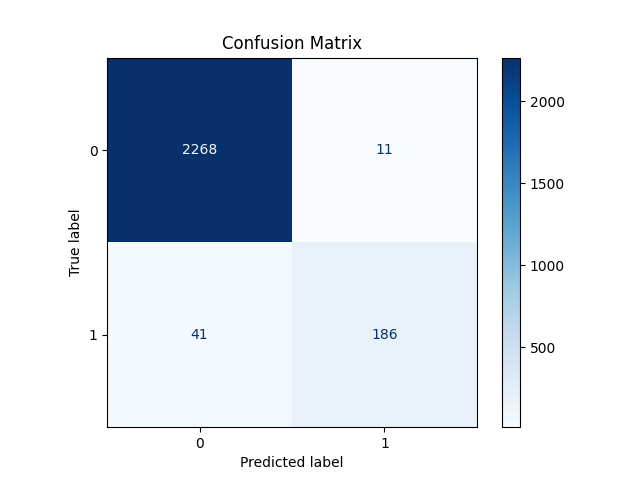
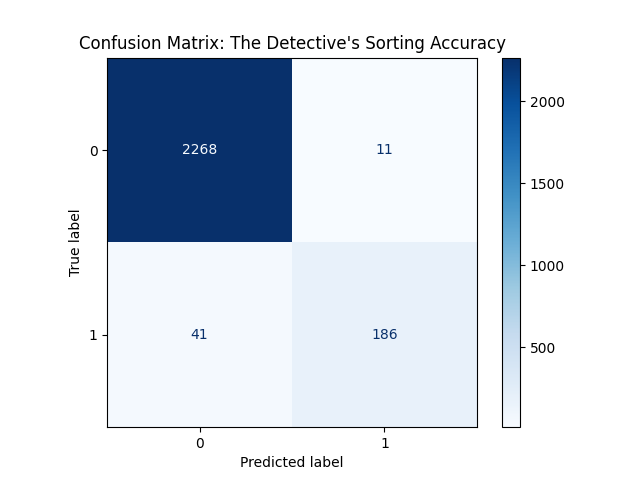
feat: final educational MLOps pipeline with visualizations and interactive demo

Changed region(s): [[0.125, 0.0625, 0.7812, 0.125]]

diff --git a/src/evaluate.py b/src/evaluate.py
@@ -8,6 +8,7 @@ from sklearn.metrics import classification_report, f1_score, accuracy_score, con
 import matplotlib.pyplot as plt
 import seaborn as sns
 
+# Helper: Load instructions
 def load_config(config_path):
     with open(config_path, 'r') as f:
         return yaml.safe_load(f)
@@ -24,7 +25,7 @@ def run_evaluation():
     logger = logging.getLogger("Evaluate")
     logger.info("Starting model evaluation and visualization...")
 
-    # Load test data and model
+    # Step 1: Load the "Exam Questions" (Test Data) and the "Detective's Brain" (Model)
     processed_dir = config['paths']['processed_dir']
     X_test = pd.read_csv(os.path.join(processed_dir, "X_test.csv"))
     y_test = pd.read_csv(os.path.join(processed_dir, "y_test.csv"))
@@ -32,10 +33,12 @@ def run_evaluation():
     model_path = config['paths']['model_path']
     model = joblib.load(model_path)
 
-    # Predictions
+    # Step 2: Make Predictions (The Detective takes the Exam)
     y_pred = model.predict(X_test)
 
-    # Metrics
+    # Step 3: Calculate Performance Scores (The Grading)
+    # Accuracy: % of correct answers overall.
+    # F1 Score: A balance between finding all pulsars and not making false alarms.
     report = classification_report(y_test, y_pred, output_dict=True)
     f1 = f1_score(y_test, y_pred)
     acc = accuracy_score(y_test, y_pred)
@@ -46,25 +49,28 @@ def run_evaluation():
         "classification_report": report
     }
 
-    # Save metrics
+    # Save metrics to a file
     metrics_path = config['paths']['metrics_path']
     os.makedirs(os.path.dirname(metrics_path), exist_ok=True)
     with open(metrics_path, 'w') as f:
         json.dump(metrics, f, indent=4)
     
-    # Visualization: Confusion Matrix
+    # Step 4: Visualizing Results (The 'Report Cards')
     plots_dir = config['paths']['plots_dir']
     os.makedirs(plots_dir, exist_ok=True)
     
+    # Visualization A: Confusion Matrix (The 'Sorting Map')
+    # Shows exactly where the detective was correct vs where they got confused.
     plt.figure(figsize=(10, 7))
     cm = confusion_matrix(y_test, y_pred)
     disp = ConfusionMatrixDisplay(confusion_matrix=cm)
     disp.plot(cmap='Blues')
-    plt.title('Confusion Matrix')
+    plt.title('Confusion Matrix: The Detective\'s Sorting Accuracy')
     plt.savefig(os.path.join(plots_dir, 'confusion_matrix.png'))
     plt.close()
     
-    # Visualization: Feature Importance
+    # Visualization B: Feature Importance (The 'Clue Map')
+    # Shows which measurements were the most important for the Detective's decisions.
     plt.figure(figsize=(12, 8))
     importances = model.feature_importances_
     feature_names = X_test.columns
@@ -72,14 +78,14 @@ def run_evaluation():
     feature_importance_df = feature_importance_df.sort_values(by='importance', ascending=False)
     
     sns.barplot(x='importance', y='feature', data=feature_importance_df, palette='viridis')
-    plt.title('Model Feature Importance')
+    plt.title('Feature Importance: Which Clues Mattered Most?')
     plt.tight_layout()
     plt.savefig(os.path.join(plots_dir, 'feature_importance.png'))
     plt.close()
 
     logger.info("Evaluation and visualization complete. Artifacts saved.")
     print(f"Evaluation complete. Accuracy: {acc:.4f}, F1: {f1:.4f}")
-    print(f"Visualizations saved to {plots_dir}")
+    print(f"Visualizations have been saved to {plots_dir}")
 
 if __name__ == "__main__":
     run_evaluation()

diff --git a/src/predict.py b/src/predict.py
@@ -4,6 +4,7 @@ import yaml
 import os
 import random
 
+# Helper: Load instructions
 def load_config(config_path):
     with open(config_path, 'r') as f:
         return yaml.safe_load(f)
@@ -11,7 +12,7 @@ def load_config(config_path):
 def run_demo():
     config = load_config('config/config.yaml')
     
-    # 1. Load the model and data
+    # Step 1: Load the Detective (the Model) and the Archives (the Data)
     model = joblib.load(config['paths']['model_path'])
     X_test = pd.read_csv(os.path.join(config['paths']['processed_dir'], "X_test.csv"))
     y_test = pd.read_csv(os.path.join(config['paths']['processed_dir'], "y_test.csv"))
@@ -20,7 +21,7 @@ def run_demo():
     print("🛸 SPACE DETECTIVE: LIVE INVESTIGATION")
     print("="*40)
     
-    # 2. Let the user choose from a given list
+    # Step 2: Let the user (the Junior Detective) choose a star to investigate
     print("Select a star from the Star Chart to investigate:")
     print(" A. Star Sirius (Classic Pulsar)")
     print(" B. Star Vega   (Quiet Signal)")
@@ -28,15 +29,16 @@ def run_demo():
     print(" D. Pick a Random Star")
     print(" E. Enter a Custom Star ID")
     
-    # Mapping friendly names to indices (using the ones we identified)
+    # Mapping names to data indices
     star_map = {
-        'A': 5,  # Pulsar
-        'B': 0,  # Junk
-        'C': 11, # Pulsar
+        'A': 5,  # Verified Pulsar in dataset
+        'B': 0,  # Verified Space Junk in dataset
+        'C': 11, # Verified Pulsar in dataset
     }
     
     choice = input("\nEnter your selection (A-E): ").upper()
     
+    # Step 3: Identify the star index based on the choice
     if choice in star_map:
         idx = star_map[choice]
     elif choice == 'D':
@@ -54,18 +56,18 @@ def run_demo():
         print("⚠ Unknown selection. The Detective picked a random star for you!")
         idx = random.randint(0, len(X_test) - 1)
 
-    # 3. Get the sample
+    # Step 4: Get the specific star signal measurements
     sample = X_test.iloc[[idx]]
     actual_label = y_test.iloc[idx].values[0]
 
-    # 4. Make Prediction
+    # Step 5: Ask the Detective for their opinion
     prediction = model.predict(sample)[0]
     
-    # 5. Print results with Space Detective analogy
+    # Step 6: Reveal the Truth!
     print("\n" + "-"*40)
     name_label = choice if choice in star_map else f"ID: {idx}"
     print(f"Investigating Star: {name_label}")
-    print("\nScanning star signal measurements...")
+    print("\nScanning star signal measurements (The Clues)...")
     for col in X_test.columns:
         print(f" - {col}: {sample[col].values[0]:.4f}")
     
@@ -73,6 +75,7 @@ def run_demo():
     print(f"🕵  Detective says: This looks like {'a REAL PULSAR' if prediction == 1 else 'SPACE JUNK (Noise)'}")
     print(f"📜 Ancient Archive (Truth): This is {'a REAL PULSAR' if actual_label == 1 else 'SPACE JUNK (Noise)'}")
     
+    # Step 7: Check if the Detective was correct
     if prediction == actual_label:
         print("\n✅ THE DETECTIVE WAS RIGHT!")
     else:

diff --git a/src/preprocess.py b/src/preprocess.py
@@ -6,6 +6,8 @@ from sklearn.preprocessing import StandardScaler
 from sklearn.impute import SimpleImputer
 import logging
 
+# Step 1: Load the configuration file (the 'Instruction Manual')
+# This tells the code where to find data and how to process it.
 def load_config(config_path):
     with open(config_path, 'r') as f:
         return yaml.safe_load(f)
@@ -13,7 +15,7 @@ def load_config(config_path):
 def run_preprocessing():
     config = load_config('config/config.yaml')
     
-    # Setup logging
+    # Setup logging to keep track of what the code is doing
     os.makedirs(os.path.dirname(config['paths']['log_path']), exist_ok=True)
     logging.basicConfig(
         filename=config['paths']['log_path'],
@@ -23,11 +25,12 @@ def run_preprocessing():
     logger = logging.getLogger("Preprocess")
     logger.info("Starting preprocessing with data split...")
 
-    # Load raw data
+    # Load raw data (the messy signals from space)
     raw_df = pd.read_csv(config['paths']['raw_data'])
     target = config['preprocessing']['target_column']
     
-    # Split data before any processing to prevent leakage
+    # Step 2: Split data into "Study Material" (Train) and "Exam Questions" (Test)
+    # This prevents the Detective from 'cheating' by seeing the exam answers early!
     train_df, test_df = train_test_split(
         raw_df, 
         test_size=config['preprocessing']['test_size'], 
@@ -40,12 +43,14 @@ def run_preprocessing():
     X_test = test_df.drop(columns=[target])
     y_test = test_df[target]
 
-    # Handle missing values
+    # Step 3: Handle missing values (the 'Cleaning' step)
+    # Sometimes space signals are incomplete. We fill in the gaps with the 'Average' (mean) value.
     imputer = SimpleImputer(strategy=config['preprocessing']['impute_strategy'])
     X_train_imputed = pd.DataFrame(imputer.fit_transform(X_train), columns=X_train.columns)
     X_test_imputed = pd.DataFrame(imputer.transform(X_test), columns=X_test.columns)
 
-    # Scaling
+    # Step 4: Scaling (the 'Standardization' step)
+    # We make sure all measurements use the same scale so the Detective doesn't get confused by big numbers.
     if config['preprocessing']['scaling']:
         scaler = StandardScaler()
         X_train_scaled = pd.DataFrame(scaler.fit_transform(X_train_imputed), columns=X_train.columns)
@@ -54,7 +59,7 @@ def run_preprocessing():
         X_train_scaled = X_train_imputed
         X_test_scaled = X_test_imputed
 
-    # Save processed data
+    # Step 5: Save the cleaned data for the next stage of the factory line
     processed_dir = config['paths']['processed_dir']
     os.makedirs(processed_dir, exist_ok=True)
     

diff --git a/run_pipeline.py b/run_pipeline.py
@@ -8,14 +8,13 @@ def load_config(config_path):
     with open(config_path, 'r') as f:
         return yaml.safe_load(f)
 
-def run_step(script_path, description):
-    print(f"--- Running {description} ---")
-    result = subprocess.run([sys.executable, script_path], capture_output=True, text=True)
+def run_step(step_name, command):
+    print(f"\n--- Running {step_name} ---")
+    # The Space Detective executes the command and watches for any anomalies
+    result = subprocess.run(command, shell=True)
     if result.returncode != 0:
-        print(f"Error in {description}:")
-        print(result.stderr)
+        print(f"❌ Error in {step_name}. Factory line halted.")
         return False
-    print(result.stdout)
     return True
 
 def main():
@@ -26,7 +25,7 @@ def main():
 
     config = load_config(config_path)
     
-    # Setup logging
+    # Setup central logging for the whole factory line
     os.makedirs(os.path.dirname(config['paths']['log_path']), exist_ok=True)
     logging.basicConfig(
         filename=config['paths']['log_path'],
@@ -36,22 +35,28 @@ def main():
     logger = logging.getLogger("Pipeline")
     logger.info("Starting MLOps Pipeline Orchestrator")
 
-    steps = [
-        ('src/preprocess.py', 'Preprocessing'),
-        ('src/train.py', 'Training'),
-        ('src/evaluate.py', 'Evaluation')
-    ]
+    # Step 2: Run each stage of the factory line in order
+    # 1. Cleanup & Preparation
+    if not run_step("Preprocessing", "python src/preprocess.py"):
+        logger.error("Pipeline failed at step: Preprocessing")
+        return
 
-    for script, desc in steps:
-        if not run_step(script, desc):
-            logger.error(f"Pipeline failed at step: {desc}")
-            print(f"Pipeline failed at step: {desc}")
-            return
+    # 2. Learning/Training
+    if not run_step("Training", "python src/train.py"):
+        logger.error("Pipeline failed at step: Training")
+        return
 
+    # 3. Exam/Evaluation
+    if not run_step("Evaluation", "python src/evaluate.py"):
+        logger.error("Pipeline failed at step: Evaluation")
+        return
+
+    # Success! The Space Detective confirms the mission is complete.
     logger.info("Pipeline completed successfully.")
     print("\n==================================")
-    print("Pipeline Execution Successful!")
-    print("==================================")
+    print("✨ Factory Line Successful!")
+    print("The Space Detective is ready.")
+    print("==================================\n")
 
 if __name__ == "__main__":
     main()

diff --git a/src/train.py b/src/train.py
@@ -5,6 +5,7 @@ import joblib
 import logging
 from sklearn.ensemble import RandomForestClassifier
 
+# Helper: Load instructions from config
 def load_config(config_path):
     with open(config_path, 'r') as f:
         return yaml.safe_load(f)
@@ -21,30 +22,35 @@ def run_training():
     logger = logging.getLogger("Train")
     logger.info("Starting model training...")
 
-    # Load processed data
+    # Step 1: Load the "Study Material" we prepared in the preprocessing step
     processed_dir = config['paths']['processed_dir']
     X_train = pd.read_csv(os.path.join(processed_dir, "X_train.csv"))
     y_train = pd.read_csv(os.path.join(processed_dir, "y_train.csv"))
 
-    # Model training
+    # Step 2: Initialize the Detective (the Model)
+    # A Random Forest is like a team of detectives voting on the result.
     model_type = config['model']['type']
     params = config['model']['params']
     
     if model_type == "RandomForestClassifier":
+        # We use the parameters from config.yaml to tell the Detective how to think
         model = RandomForestClassifier(**params)
     else:
         raise ValueError(f"Unsupported model type: {model_type}")
 
+    # Step 3: Training (The 'Learning' Phase)
+    # The Detective looks at thousands of examples to find the 'clues' that matter.
     model.fit(X_train, y_train.values.ravel())
     logger.info("Model training complete.")
 
-    # Save model
+    # Step 4: Save the Detective's Brain (Persistence)
+    # We save the trained model to a file so we can reuse it later without retraining.
     model_path = config['paths']['model_path']
     os.makedirs(os.path.dirname(model_path), exist_ok=True)
     joblib.dump(model, model_path)
     
     logger.info("Model saved to %s", model_path)
-    print("Training complete. Model saved to", model_path)
+    print("Training complete. The Detective's brain has been saved to", model_path)
 
 if __name__ == "__main__":
     run_training()
